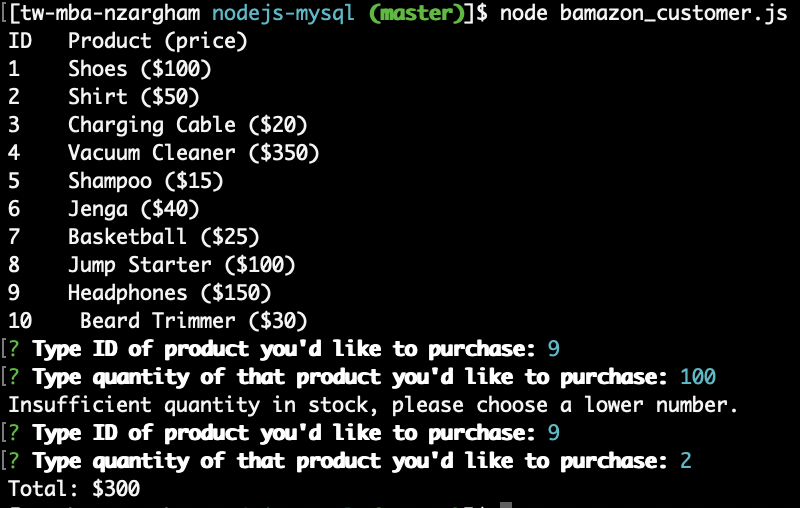
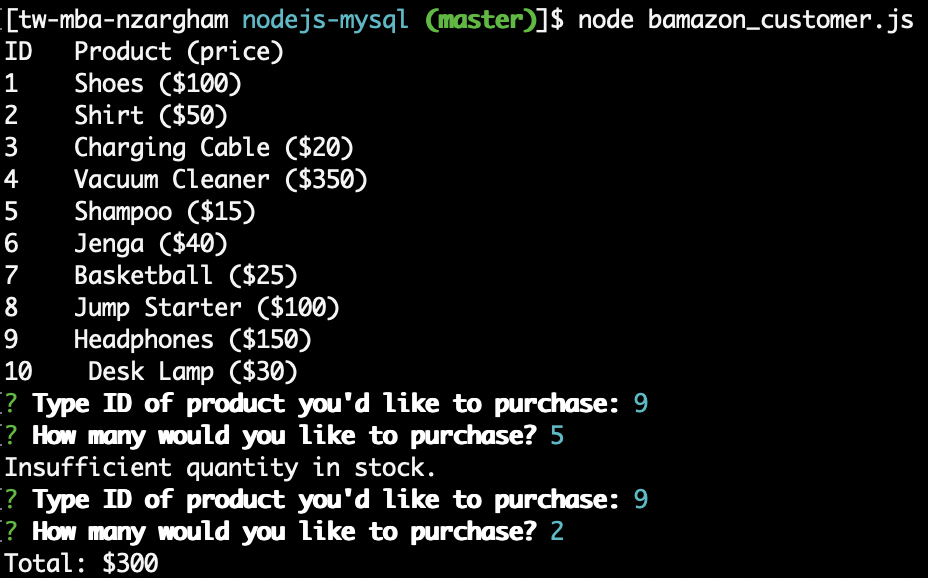
Completed manager view and added screenshots

Changed region(s): [[0.0, 0.0, 1.0, 1.0], [0.625, 0.9744, 0.6562, 1.0]]

diff --git a/bamazon_manager.js b/bamazon_manager.js
@@ -26,6 +26,8 @@ inquirer
 			viewLowInventory();
 		} else if (choice == 'Add to Inventory') {
 			addToInventory();
+		} else if (choice == 'Add New Product') {
+			addNewProduct();
 		}
 	})
 
@@ -49,7 +51,7 @@ function viewProducts() {
 
 function viewLowInventory() {
 	connection.connect();
-	connection.query('SELECT * FROM products WHERE stock_quantity < 50', function
+	connection.query('SELECT * FROM products WHERE stock_quantity < 5', function
 		(error, results, fields) {
 			if (error) throw error;
 			for (var i in results) {
@@ -79,7 +81,7 @@ function addToInventory() {
 				.prompt([
 					{
 						type: 'list',
-						message: 'Select Item to Add:',
+						message: 'Select item to add quantity for:',
 						choices: currentItems,
 						name: 'choice'
 					},
@@ -88,14 +90,53 @@ function addToInventory() {
 						message: 'Add stock quantity:',
 						name: 'addQuantity'
 					}
-				]).then(function(response) {
+				]).then(
+					function(response) {
 					currentQuantity[response.choice] += parseInt(response.addQuantity);
-					connection.query('UPDATE products SET stock_quantity = ? WHERE product_name = ?', [currentQuantity[response.choice], response.choice], function(error, results, fields) {
+					connection.query('UPDATE products SET stock_quantity = ? WHERE product_name = ?', 
+						[currentQuantity[response.choice], response.choice], 
+						function(error, results, fields) {
 							if (error) throw error;
 							console.log('Updated quantity for ' + response.choice + ' to: ' + currentQuantity[response.choice]);
 						});
 					connection.end();
-				})
-				
+				})		
+		});
+}
+
+
+function addNewProduct() {
+	inquirer
+		.prompt([
+			{
+				type: 'input',
+				message: 'New product name:',
+				name: 'product'
+			},
+			{
+				type: 'list',
+				message: 'Department:',
+				choices: ['Clothing', 'Electronics', 'Home', 'Beauty & Health', 'Games & Toys', 'Sports', 'Automotive'],
+				name: 'department'
+			},
+			{
+				type: 'input',
+				message: 'Price:',
+				name: 'price'
+			},
+			{
+				type: 'input',
+				message: 'Stock quantity:',
+				name: 'quantity'
+			}
+		]).then(
+			function(response) {
+			connection.connect();
+			connection.query('INSERT INTO products (product_name, department_name, price, stock_quantity) VALUES (?, ?, ?, ?)', [response.product, response.department, parseInt(response.price), parseInt(response.quantity)],
+				function (error, results, fields) {
+					if (error) throw error;
+					console.log('Success: ' + response.quantity + ' items of ' + response.product + ' were added to ' + response.department + ' at $' + response.price + '/item.' );
+					connection.end();
+				});
 		});
 }

diff --git a/bamazon_customer.js b/bamazon_customer.js
@@ -35,7 +35,7 @@ function askUser() {
 		},
 		{
 			type: 'input',
-			message: 'Type quantity of that product you\'d like to purchase:',
+			message: 'How many would you like to purchase?',
 			name: 'quantity'
 		}
 		]).then(function(response) {	
@@ -45,7 +45,7 @@ function askUser() {
 					stockItem = results[0].stock_quantity;
 					priceItem = results[0].price;
 					if (response.quantity > stockItem) {
-						console.log('Insufficient quantity in stock, please choose a lower number.');
+						console.log('Insufficient quantity in stock.');
 						askUser();
 					} else {
 						stockItem -= response.quantity;
